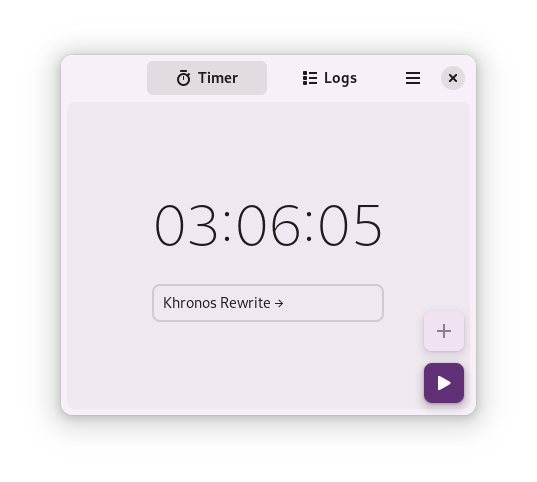
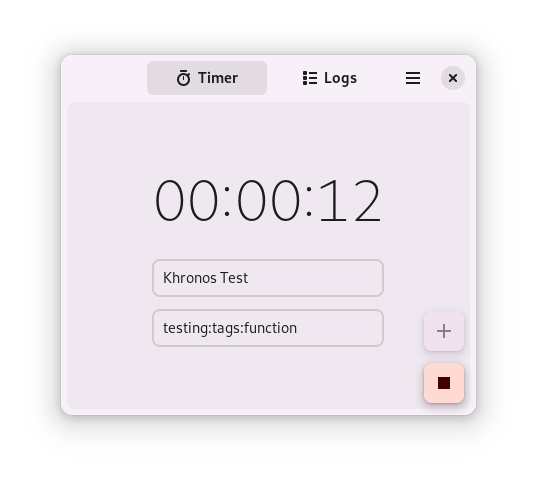
3.6.6 - Tags functionality

Changed region(s): [[0.2682, 0.3734, 0.7151, 0.7469], [0.7747, 0.7469, 0.8641, 0.8402]]

diff --git a/data/style.css b/data/style.css
@@ -80,3 +80,9 @@ headerbar {
   background: none;
   border-radius: 8px;
 }
+
+.kh-tag {
+  background: shade(@view_bg_color,0.95);
+  border-radius: 8px;
+  padding: 8px;
+}
